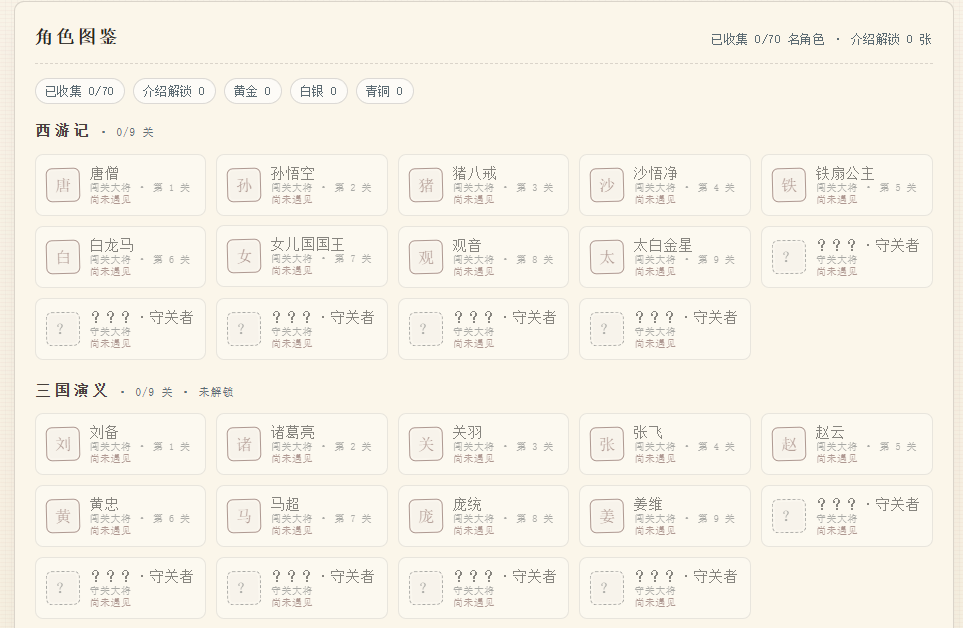
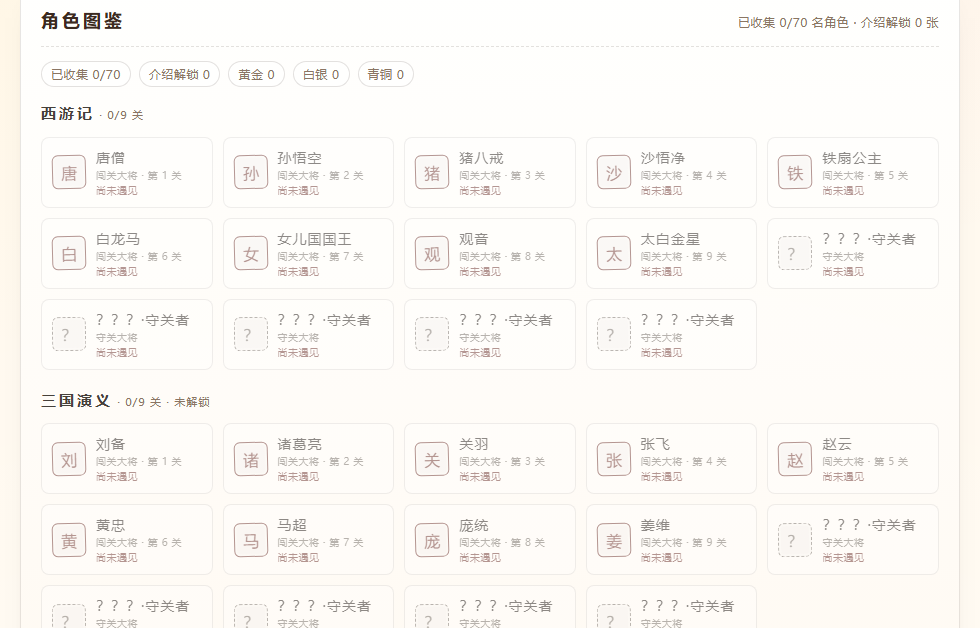
docs(合规): 对齐赛事规则查漏补缺
- README 补充 MCP Token 官方申请路径（open.mcd.cn/mcp 四步）+ WorkBuddy 连接器配置指引，
  便于评委复核「真实使用 MCP」这条参赛资格硬性要求
- README 首屏补 Star 引导（Star 是本赛事唯一排名依据）
- 截图重制：原截图早于背景换肤提交，展示的是旧配色（衬线字/红色药丸/灰色山峰），
  改为用 Edge 无头模式重新截取当前版本（黄色药丸/黄色山径/橙色山峰/无衬线）
- workbuddy.md 补第七节「真实的 WorkBuddy 对话上下文」：从会话日志原样导出的 18 条用户
  侧需求原文与时间线，对齐规则中「提交对话上下文用于核验联动奖励」的原文要求

验证：selfcheck.py exit=0（DOC_SYNC: OK），彩蛋单测 63/63 未受影响

diff --git a/README.md b/README.md
@@ -12,6 +12,9 @@
 
 非麦当劳官方产品，输出仅供参考，餐品信息与价格以麦当劳官方渠道实时结果为准。
 
+> ⭐ **如果这个项目对你有用，欢迎点一下 Star。** 它是本项目唯一的排名依据，也是最直接的支持方式。
+> 遇到问题或想让它支持更多题型 / 故事线，欢迎开 Issue，我都会看。
+
 ## 截图
 
 **闯关地图（演示页首页）**——五条故事线的解锁链、九关八十一难山径；未解锁的关只露关名，守关大将身份保密：
@@ -292,6 +295,22 @@ ratio / 品阶徽记）、角色卡入手、图鉴三状态，进度按 `story` 
 
 ## 五、安装
 
+### 5.1 先拿一枚 MCP Token（想看实时数据才需要）
+
+本项目**不设 Token 也能跑**（自动降级到内置示例数据）。但若要复核「题目里的数字确实来自麦当劳
+MCP 实时接口」，需要一枚个人 Token，官方申请路径：
+
+1. 打开 <https://open.mcd.cn/mcp>，右上角点【登录】，用手机号完成验证；
+2. 点右上角【控制台】→ 弹出控制台窗口 → 点【激活】→ 申请 MCP Token；
+3. 阅读并同意服务协议，复制生成的 Token；
+4. 按下面的方式注入环境变量。
+
+> Token 属于个人凭证，请勿提交进仓库、不要贴进 Issue 或公开渠道。
+> 本仓库的 `.gitignore` 已拦截 `.env` / `*.token`，`mcp-config.example.json` 里只有
+> `Bearer ${MCD_MCP_TOKEN}` 占位符。
+
+### 5.2 克隆与运行
+
 ```bash
 git clone <本仓库地址> mcd-math-journey
 cd mcd-math-journey
@@ -305,6 +324,11 @@ export MCD_MCP_TOKEN="你的令牌"        # Windows PowerShell: $env:MCD_MCP_TO
 # 可选：菜单默认查海口龙湖光年餐厅（1420830），可换成自己城市的门店编码
 export MCD_STORE_CODE="你的门店编码"
 ```
+
+### 5.3 在 WorkBuddy 里连接 MCP（可选）
+
+WorkBuddy → 左侧【专家·技能·连接器】→【连接器】→ 右上角【自定义连接器】→【配置MCP】，
+填入本仓库的 `mcp-config.example.json` 内容（把 `${MCD_MCP_TOKEN}` 换成实际令牌），保存后启用即可。
 
 ## 六、快速开始
 
